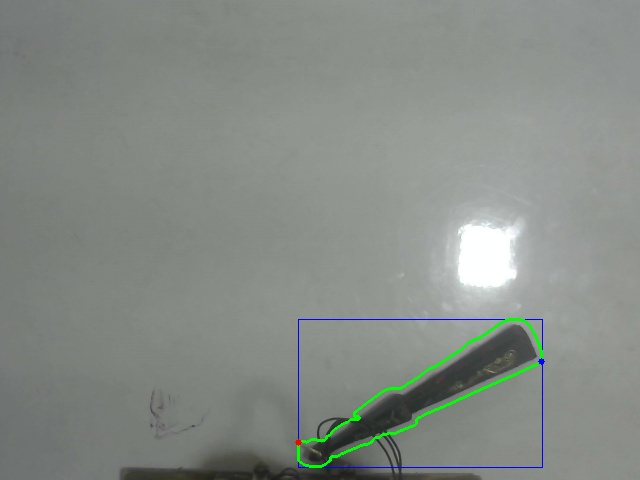
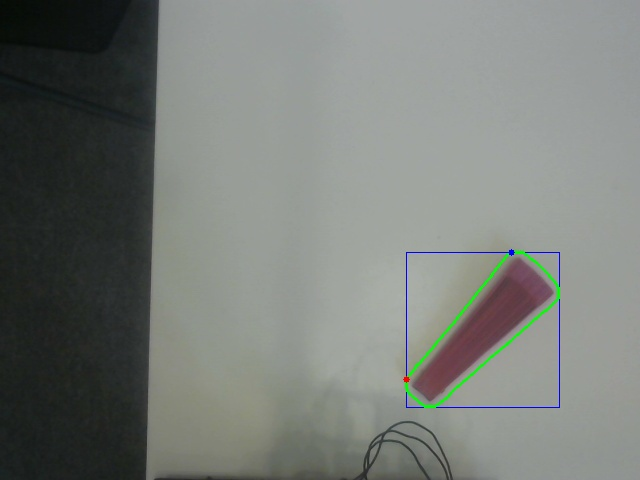
Final. This is the one we presented

diff --git a/Bg_sub.py b/Bg_sub.py
@@ -6,17 +6,19 @@ from skimage.measure import compare_ssim
 class Bg_sub:
 	@staticmethod
 	def bg_sub():
-		cap=cv2.VideoCapture(1)
+		cap=cv2.VideoCapture(3)
 		ret=True
 		while ret:
 			ret,cam=cap.read()
 			#yuv=cv2.cvtColor(cam,cv2.COLOR_BGR2YUV)
 			cv2.imshow("yuv",cam)
 			#mask = cv2.inRange(cam, (np.array([97,46,17])), (np.array([117,46,17])))
-			if cv2.waitKey(1)==ord("c"):
+			if cv2.waitKey(5)==ord("c"):
 				cv2.imwrite("without_fan.jpg",cam)
-			if cv2.waitKey(1)==ord("f"):
+				print 'without fan'
+			if cv2.waitKey(5)==ord("d"):
 				cv2.imwrite("with_fan.jpg",cam)
+				print 'with fan'
 			if cv2.waitKey(5)==27:
 				break
 		cap.release()
@@ -54,18 +56,25 @@ class Bg_sub:
 					sum1= im1.sum()
 					sum2=im2.sum()
 					if sum1>sum2:
-						top1=tuple(c[c[:, :, 0].argmin()][0])
-						bottom1=tuple(c[c[:, :, 0].argmax()][0])
+						top1=tuple(c[c[:, :, 1].argmin()][0])
+						bottom1=tuple(c[c[:, :, 0].argmin()][0])
+						if top1[0]<320:
+							top1=tuple(c[c[:, :, 0].argmin()][0])
+							bottom1=tuple(c[c[:, :, 1].argmax()][0])
 						cv2.circle(image2, top1, 3, (255, 0, 0), -1)
 						cv2.circle(image2, bottom1, 3, (0, 0, 255), -1)
 						print "Top: ",top1
 						print "Bottom: ",bottom1
 					else:
-						top1=tuple(c[c[:, :, 0].argmax()][0])
-						bottom1=tuple(c[c[:, :, 0].argmin()][0])
+						top1=tuple(c[c[:, :, 0].argmin()][0])
+						bottom1=tuple(c[c[:, :, 1].argmax()][0])
+						if top1[0]>320:
+							 top1=tuple(c[c[:, :, 1].argmin()][0])
+							 bottom1=tuple(c[c[:, :, 0].argmin()][0])
+						print "been there"
 						cv2.circle(image2, top1, 3, (255, 0, 0), -1)
 						cv2.circle(image2, bottom1, 3, (0, 0, 255), -1)
-						print "Top: ",top1
+						print "Top: ",top1,"else_part"
 						print "Bottom: ",bottom1
 
 					print "hori"
@@ -80,14 +89,21 @@ class Bg_sub:
 					sum2=im2.sum()
 					if sum1>sum2:
 						top1=tuple(c[c[:, :, 1].argmin()][0])
-						bottom1=tuple(c[c[:, :, 1].argmax()][0])
+						bottom1=tuple(c[c[:, :, 0].argmin()][0])
+						if top1[0]<320:
+							 top1=tuple(c[c[:, :, 0].argmin()][0])
+							 bottom1=tuple(c[c[:, :, 1].argmax()][0])
+						print "been here"
 						cv2.circle(image2, top1, 3, (255, 0, 0), -1)
 						cv2.circle(image2, bottom1, 3, (0, 0, 255), -1)
 						print "Top: ",top1
 						print "Bottom: ",bottom1
 					else:
-						top1=tuple(c[c[:, :, 1].argmax()][0])
-						bottom1=tuple(c[c[:, :, 1].argmin()][0])
+						top1=tuple(c[c[:, :, 1].argmin()][0])
+						bottom1=tuple(c[c[:, :, 0].argmin()][0])
+						if top1[0]< 320:
+							top1=tuple(c[c[:, :, 0].argmin()][0])
+							bottom1=tuple(c[c[:, :, 1].argmax()][0])
 						cv2.circle(image2, top1, 3, (255, 0, 0), -1)
 						cv2.circle(image2, bottom1, 3, (0, 0, 255), -1)
 						print "Top: ",top1

diff --git a/Equations.py b/Equations.py
@@ -4,49 +4,55 @@ class Equations:
 
 	@staticmethod
 	def pixel_to_real(x,y):
-		Y=17*2.54
-		X=23*2.54
+		REAL_Y=17*2.54			# height of working area
+		REAL_X=23*2.54			# width  of working area
 
-		x=(x-640/2)
-		y=-(y-(480))
+		PXL_Y=480				# height of camera frame
+		PXL_X=640				# width  of camera frame
+
+		PXL_CEN_X=335
+		PXL_CEN_Y=480
+
+		x=  (x - PXL_CEN_X)			# shifting
+		y= -(y - PXL_CEN_Y)			# the origin
 
 
-		x= (x*(X/640))
-		y= (y*(Y/480))
+		x= (x * (REAL_X/PXL_X))
+		y= (y * (REAL_Y/PXL_Y))
 
 		return x,y
 
 	@staticmethod
-	def get_th(x1,y1,x2,y2, point_of_grasp=3):
+	def get_th(x1,y1,x2,y2, poi=-1):
 		l1=9.3
 		l2=7
 		print "x1,y1 = ",x1, y1
 		print "x2,y2 = ",x2, y2
+		print "point",poi
 
 		tha=float(atan((y1-y2)/(x1-x2)))
 		if	tha<0:
 			tha+=pi
-		x=(x2+point_of_grasp*cos(tha))
-		y=(y2+point_of_grasp*sin(tha))
-		
-		
-		print "x,y = ",x,y
-		dist=float(sqrt((x*x)+(y*y)))
+		xj=(x2+(poi*cos(tha)))
+		#print "xj",xj,x2,cos(tha)
+		yj=(y2+(poi*sin(tha)))
+
+		print "xj,yj = ",xj,yj
+		dist=float(sqrt((xj*xj)+(yj*yj)))
 		print "dist = ",dist
-		th2=float(acos(((dist*dist) - (l1*l1) - (l2*l2))/(2*l1*l2)))
+		print -((dist*dist) - (l1*l1) - (l2*l2))/(2*l1*l2)
+		th2= pi - float(acos(-((dist*dist) - (l1*l1) - (l2*l2))/(2*l1*l2)))
 		print "th2 = ",th2
-		d1=float(acos(y/dist))
-		print "d1 = ",d1
+		d1=float(acos(xj/dist))
+		print "d1 = ",degrees(d1)
 		d2=float(acos((dist**2 + l1**2 - l2**2)/(2*l1*dist)))
-		print "d2 = ",d2
-		th1=(d1-d2)
-		print "th1 = ",th1
+		print "d2 = ",degrees(d2)
+		th1= pi/2-(d1+d2)
+		print "th1 = ",degrees(th1)
 		#if tha<0:
 		#	tha+=pi
-		print "tha = ",tha
-		if	x<0:
-			th1=-th1
-			th2=-th2	
+		print "tha = ",degrees(tha)
 		th3=pi/2-tha-th1-th2
+
 		return (-degrees(th1),-degrees(th2),-degrees(th3))
 		#return (0,-45,-45)

diff --git a/do_motion.py b/do_motion.py
@@ -4,7 +4,7 @@
 #
 # Licensed under the ApashyamKiriKiri License, Version 1.13.[insertRandomNumberHere]
 # you may not use this file except in compliance with the License.
-# 
+#
 # This is a proprietry code. No one except the Team Leads, Domain Heads
 # or Coding Domain Senior Balak or Balikas of SRMTH are supposed to read this.
 #
@@ -32,40 +32,37 @@ from Bg_sub import Bg_sub
 
 if __name__=='__main__':
 	dxl=Dynamixel()
-	
+
 	detection=Bg_sub.bg_sub()
 	x1,y1,x2,y2=detection[0][0],detection[0][1],detection[1][0],detection[1][1]
 
 	x1,y1=Equations.pixel_to_real(x1,y1)
 	x2,y2=Equations.pixel_to_real(x2,y2)
-	th1,th2,th3=Equations.get_th(x1,y1,x2,y2)
+	th1,th2,th3=Equations.get_th(x1,y1,x2,y2,1.5)
 	print "coordinates - ", x1,y1,x2,y2
 	print "angles - ", th1,th2,th3
-	
-	raw_input("press Enter to continue ")
-	
-	if th2>130 or th2<-130 or th3<-130 or th3>130:
-		th11,th22,th33=Equations.get_th(x1,y1,x2,y2, point_of_grasp=11)
-		motion_set=Read.read_from_file("close.mot",th11-2,th22,th33)
 
-		for motion in motion_set:
-			dxl.set_position(motion[0])
-			sleep(motion[1])
+	raw_input("press Enter to continue ")
+
+	if th2>130 or th2<-130 or th3<-130 or th3>130:
+		raise ("Mechanical constraint")
 
 	else:
-		motion_set=Read.read_from_file("normal.mot",th1,th2,th3)
+		motion_set=Read.read_from_file("normal.mot",th1+6.4,th2,th3)
 
 		for motion in motion_set:
 			dxl.set_position(motion[0])
+			#raw_input()
 			sleep(motion[1])
 
 
 
 
-	motion_set=Read.read_from_file("flap.mot",th1,th2,th3)
-	
+	motion_set=Read.read_from_file("flap2.mot",th1,th2,th3)
+
 	for motion in motion_set:
 		dxl.set_position(motion[0])
+		#raw_input('flapping now')
 		sleep(motion[1])
 
 

diff --git a/Dynamixel.py b/Dynamixel.py
@@ -17,7 +17,7 @@ class Dynamixel:
 		self.ids=self.dxl.scan(range(25))
 		print self.ids
 
-		self.set_speed(70)
+		self.set_speed(75)
 		self.initial_position()
 
 	def initial_position(self):
@@ -27,7 +27,7 @@ class Dynamixel:
 		#sleep(5)
 		#self.set_position( [0,80,-90,-90,90,0,0] )
 		#sleep(5)
-		self.set_position( [0,0,-90,-90,90,0,0] )
+		self.set_position( [0,0,-90,-80,90,0,0] )
 
 		raw_input(__name__ + " press enter to continue ")
 		self.set_speed(70)
